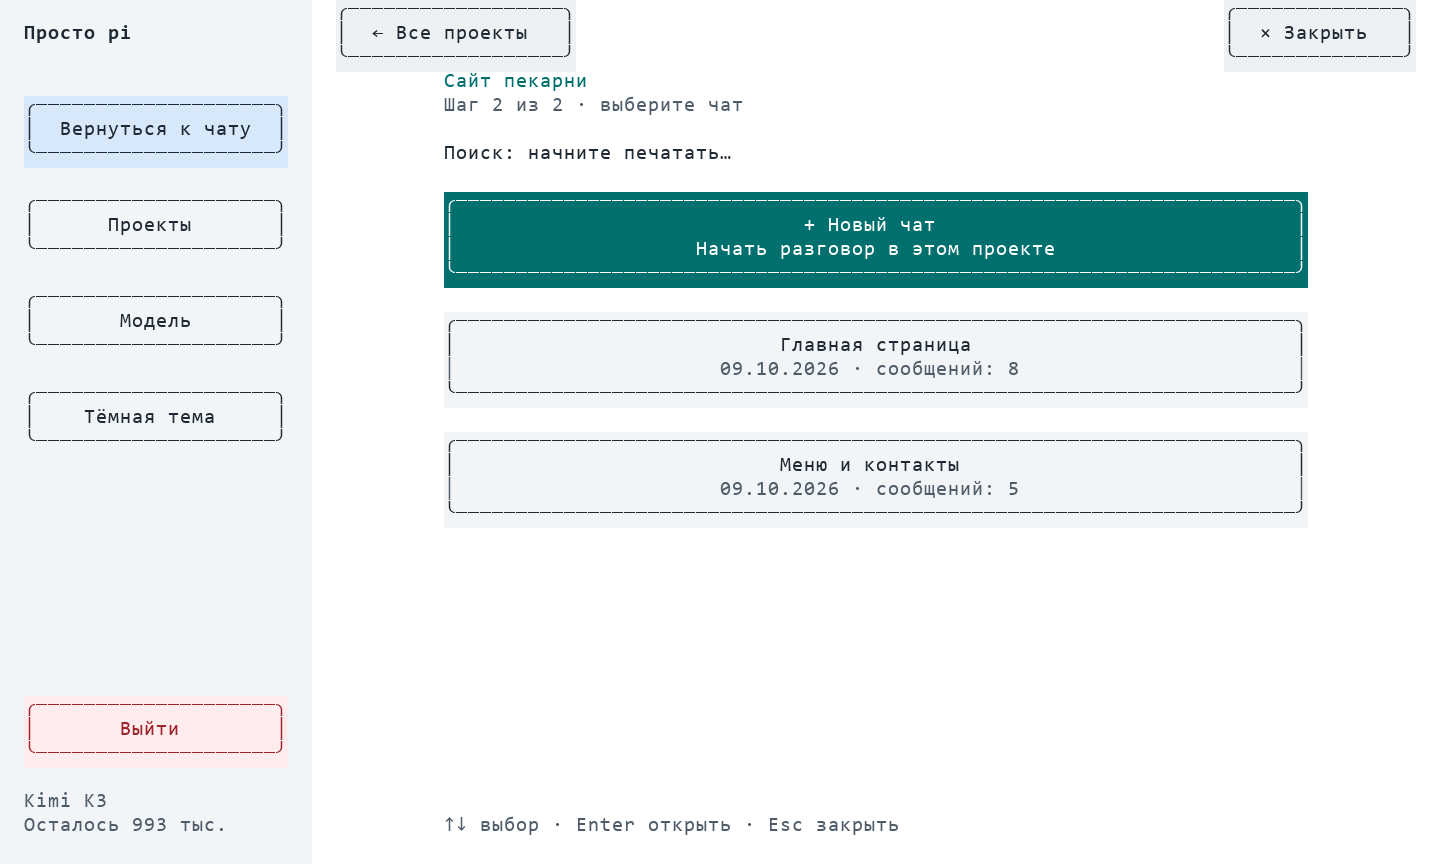
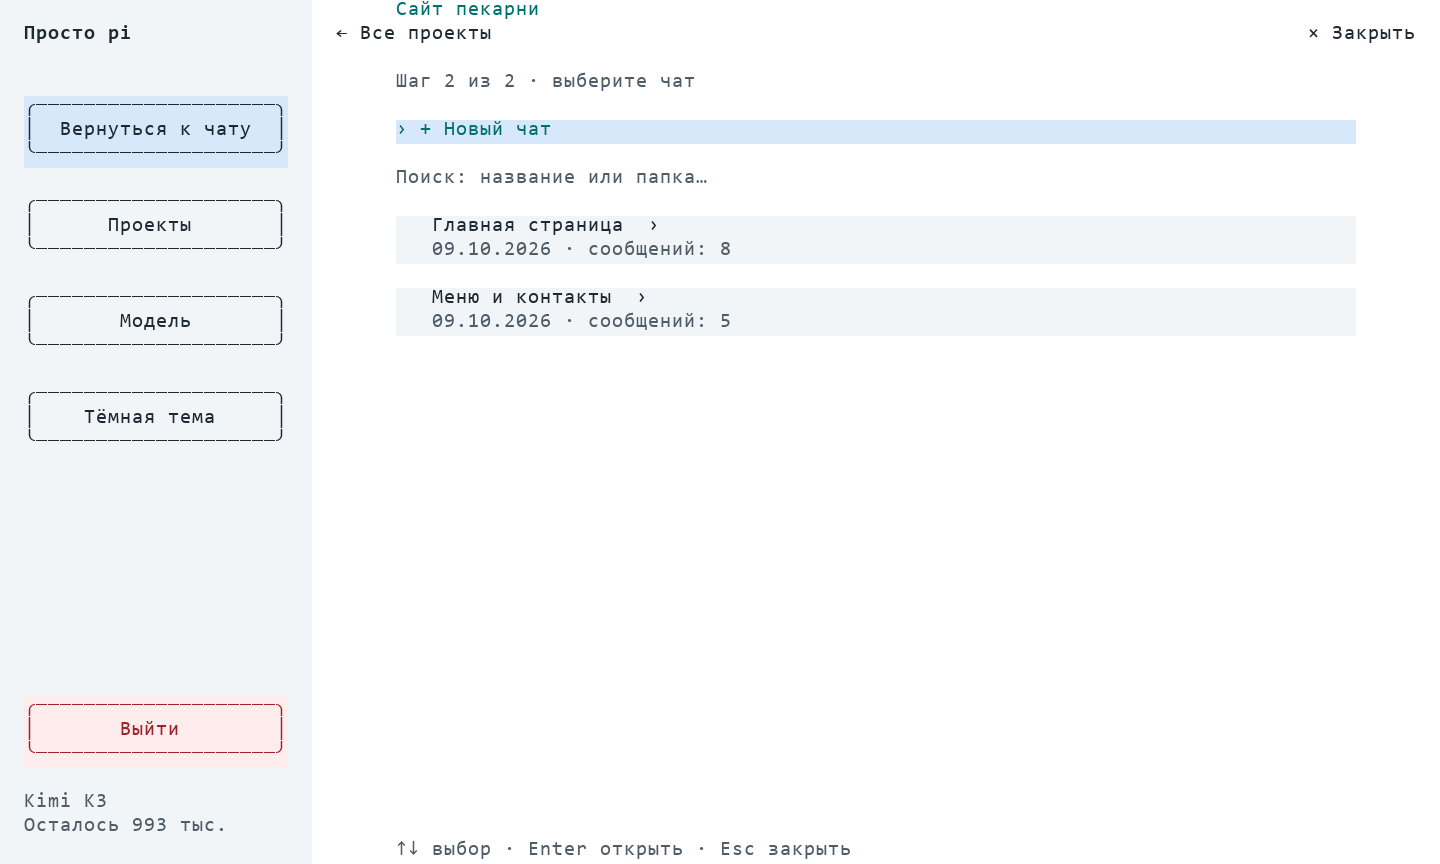
Improve project spacing, compact context menu and mouse text selection

diff --git a/index.ts b/index.ts
@@ -1,6 +1,6 @@
 import {readClipboardText} from './clipboard.mjs';
 import { createVoiceService } from './voice.mjs';
-import { CustomEditor, SessionManager, getAgentDir, type ExtensionAPI } from "@earendil-works/pi-coding-agent";
+import { copyToClipboard, CustomEditor, SessionManager, getAgentDir, type ExtensionAPI } from "@earendil-works/pi-coding-agent";
 import { Input, Markdown, matchesKey, truncateToWidth, visibleWidth } from "@earendil-works/pi-tui";
 import { readFileSync, writeFileSync } from "node:fs";
 import { homedir } from "node:os";
@@ -9,7 +9,7 @@ import { join } from "node:path";
 import { installFriendly } from "./friendly.mjs";
 export default function friendly(pi: ExtensionAPI) {
   const preferencePath = join(getAgentDir(), "friendly-ui.json");
-  installFriendly(pi, { readClipboardText, matchesKey, truncate: truncateToWidth, measure: visibleWidth,
+  installFriendly(pi, { copyToClipboard, readClipboardText, matchesKey, truncate: truncateToWidth, measure: visibleWidth,
     makeInput: () => new Input(),
     createVoice: callbacks => createVoiceService({root:join(getAgentDir(),'friendly-voice'),...callbacks}),
     makeEditor: (tui, theme, keys) => new CustomEditor(tui, theme, keys),

diff --git a/README.md b/README.md
@@ -129,3 +129,7 @@ MIT.
 Обычная громкость рисуется компактнее; максимальная высота остаётся для пиков. Нечётные высоты отклоняются от центра не более чем на половину точки.
 
 Правый клик внутри поля ввода открывает «Вставить» и «Удалить всё». Буфер читается только после выбора вставки; текст вставляется в позицию курсора без отправки. Включён нативный мигающий курсор терминала. Для нативного выделения и копирования в Windows Terminal удерживайте Shift при перетаскивании мыши. Такое выделение относится к терминалу, а не к редактированию части черновика.
+
+### Выделение и меню поля ввода
+
+В поле ввода зажмите левую кнопку мыши и проведите по тексту: Shift не нужен. Правый клик открывает компактное меню «Копировать» (при выделении), «Вставить», «Удалить всё». Ctrl+C копирует выделенный текст; ввод или вставка заменяет выделение. Выделение реализовано внутри расширения для поля ввода; выделение истории чата по-прежнему зависит от терминала.
